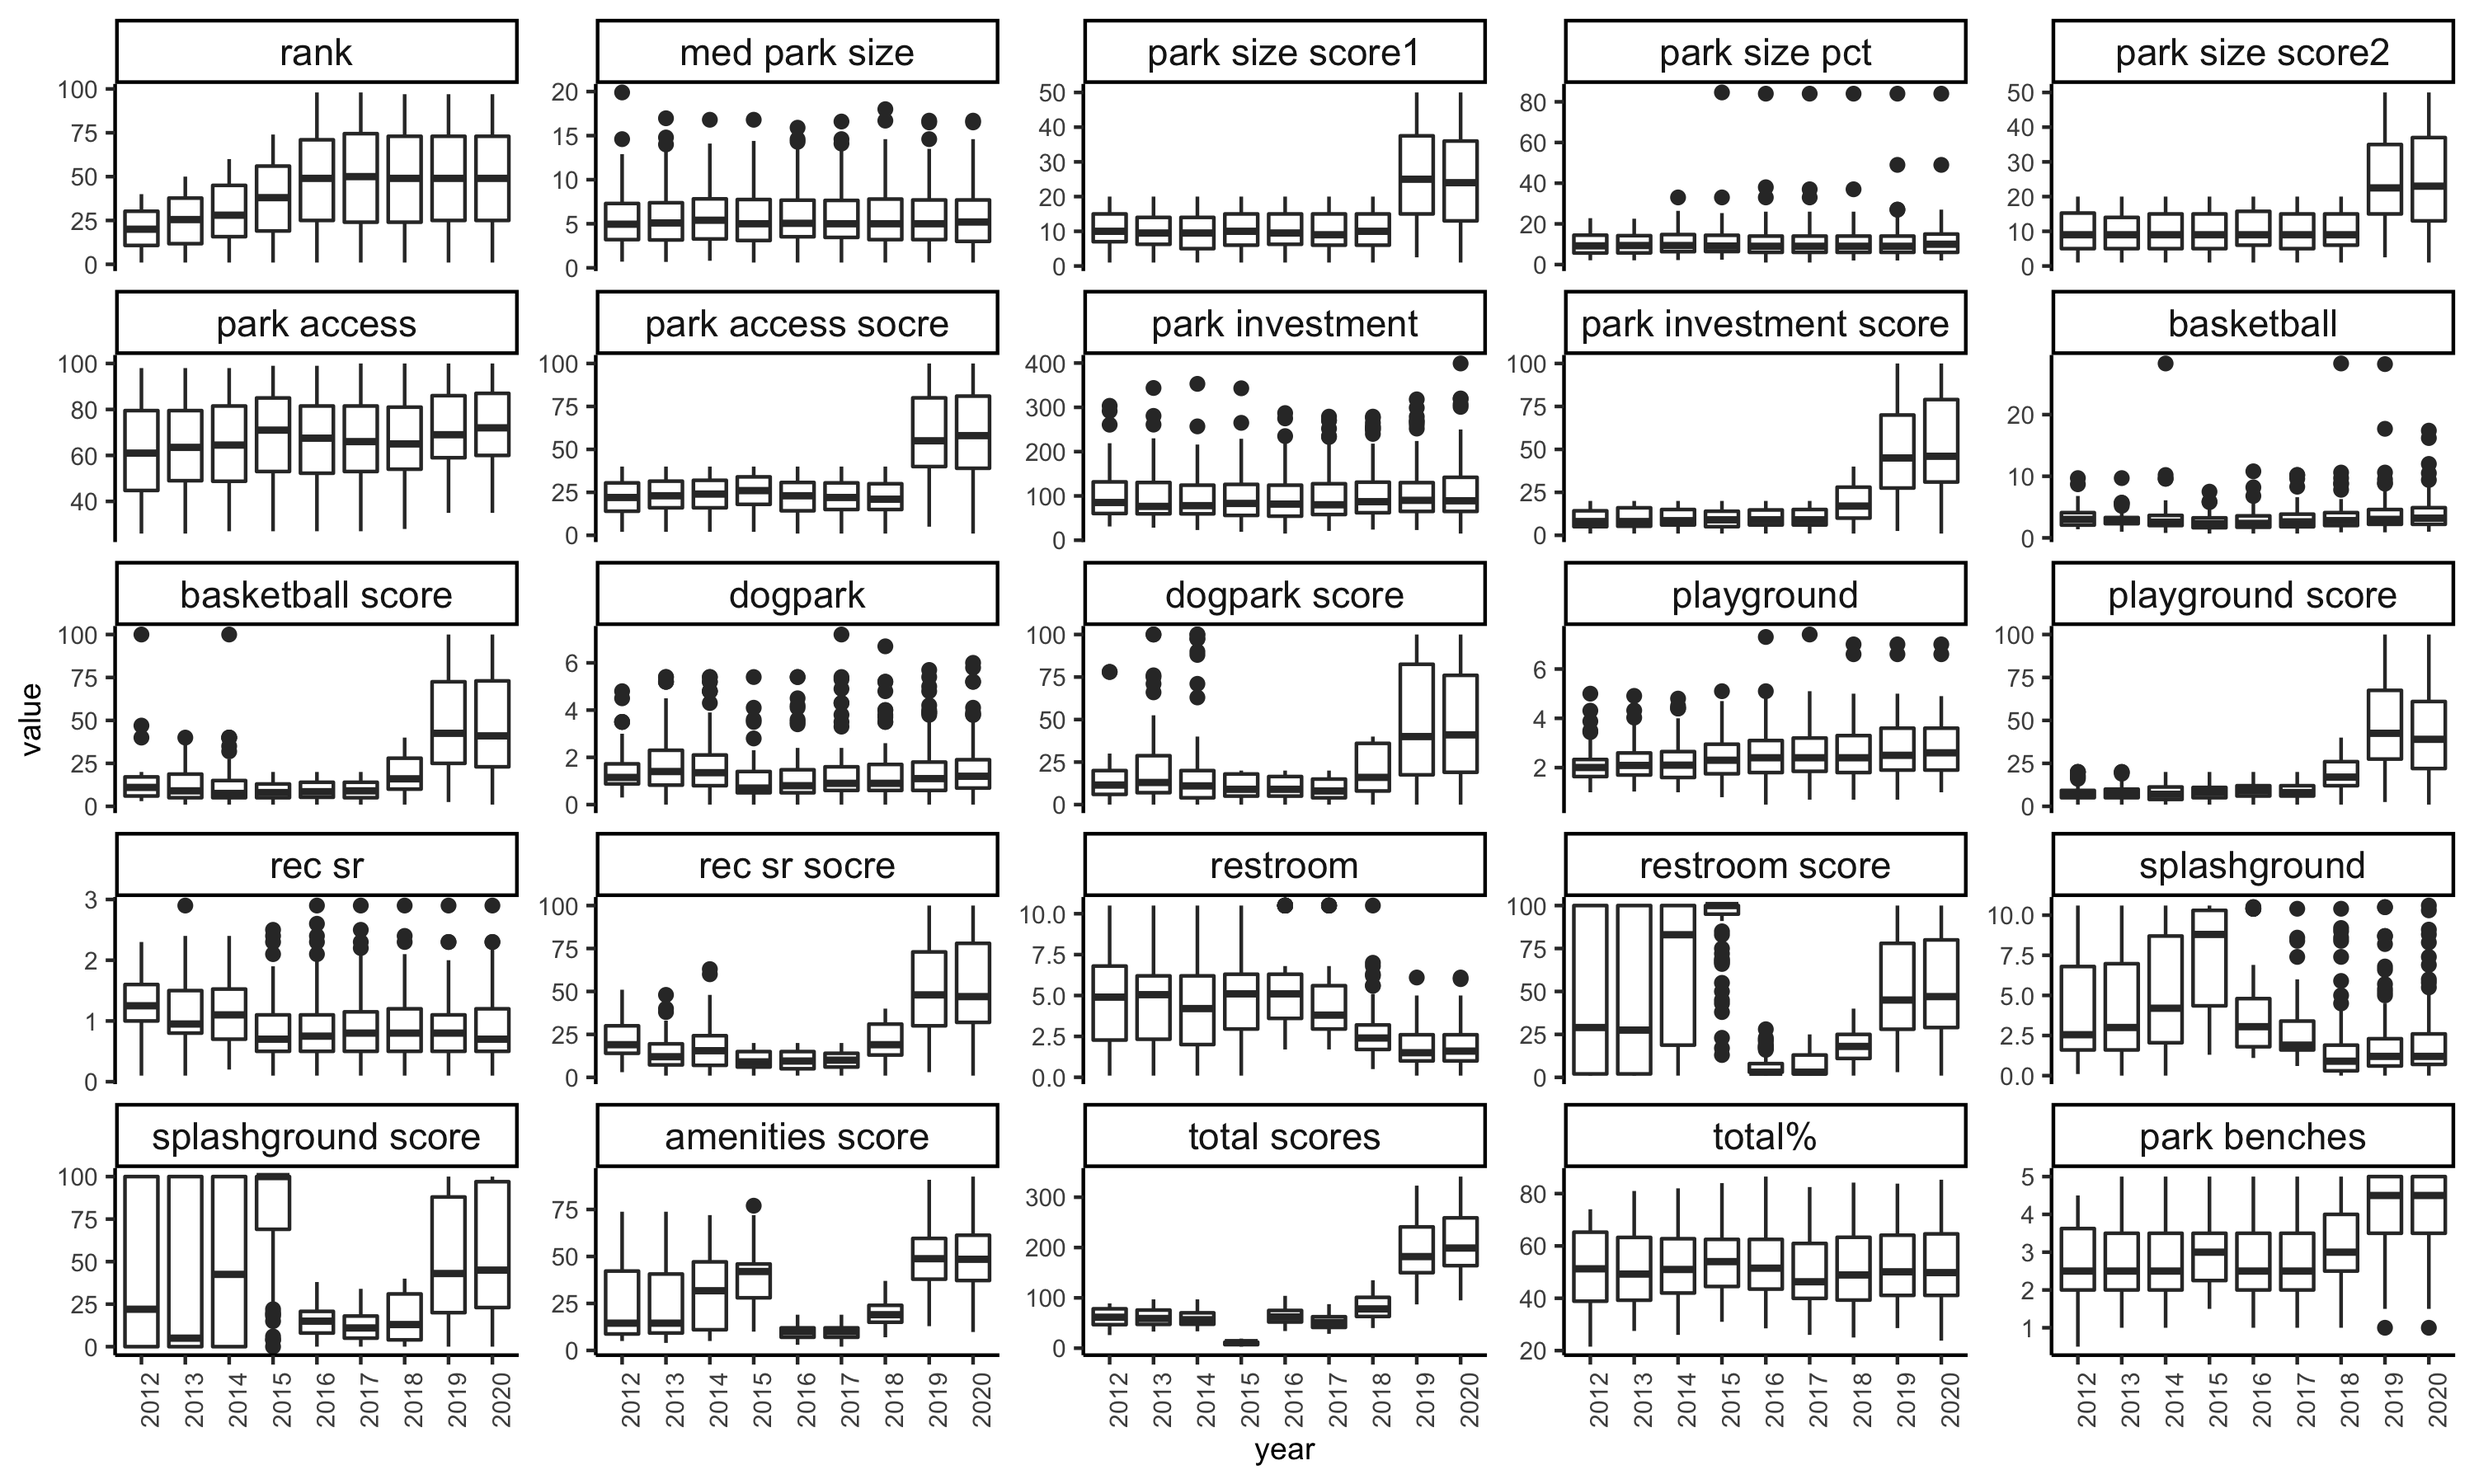
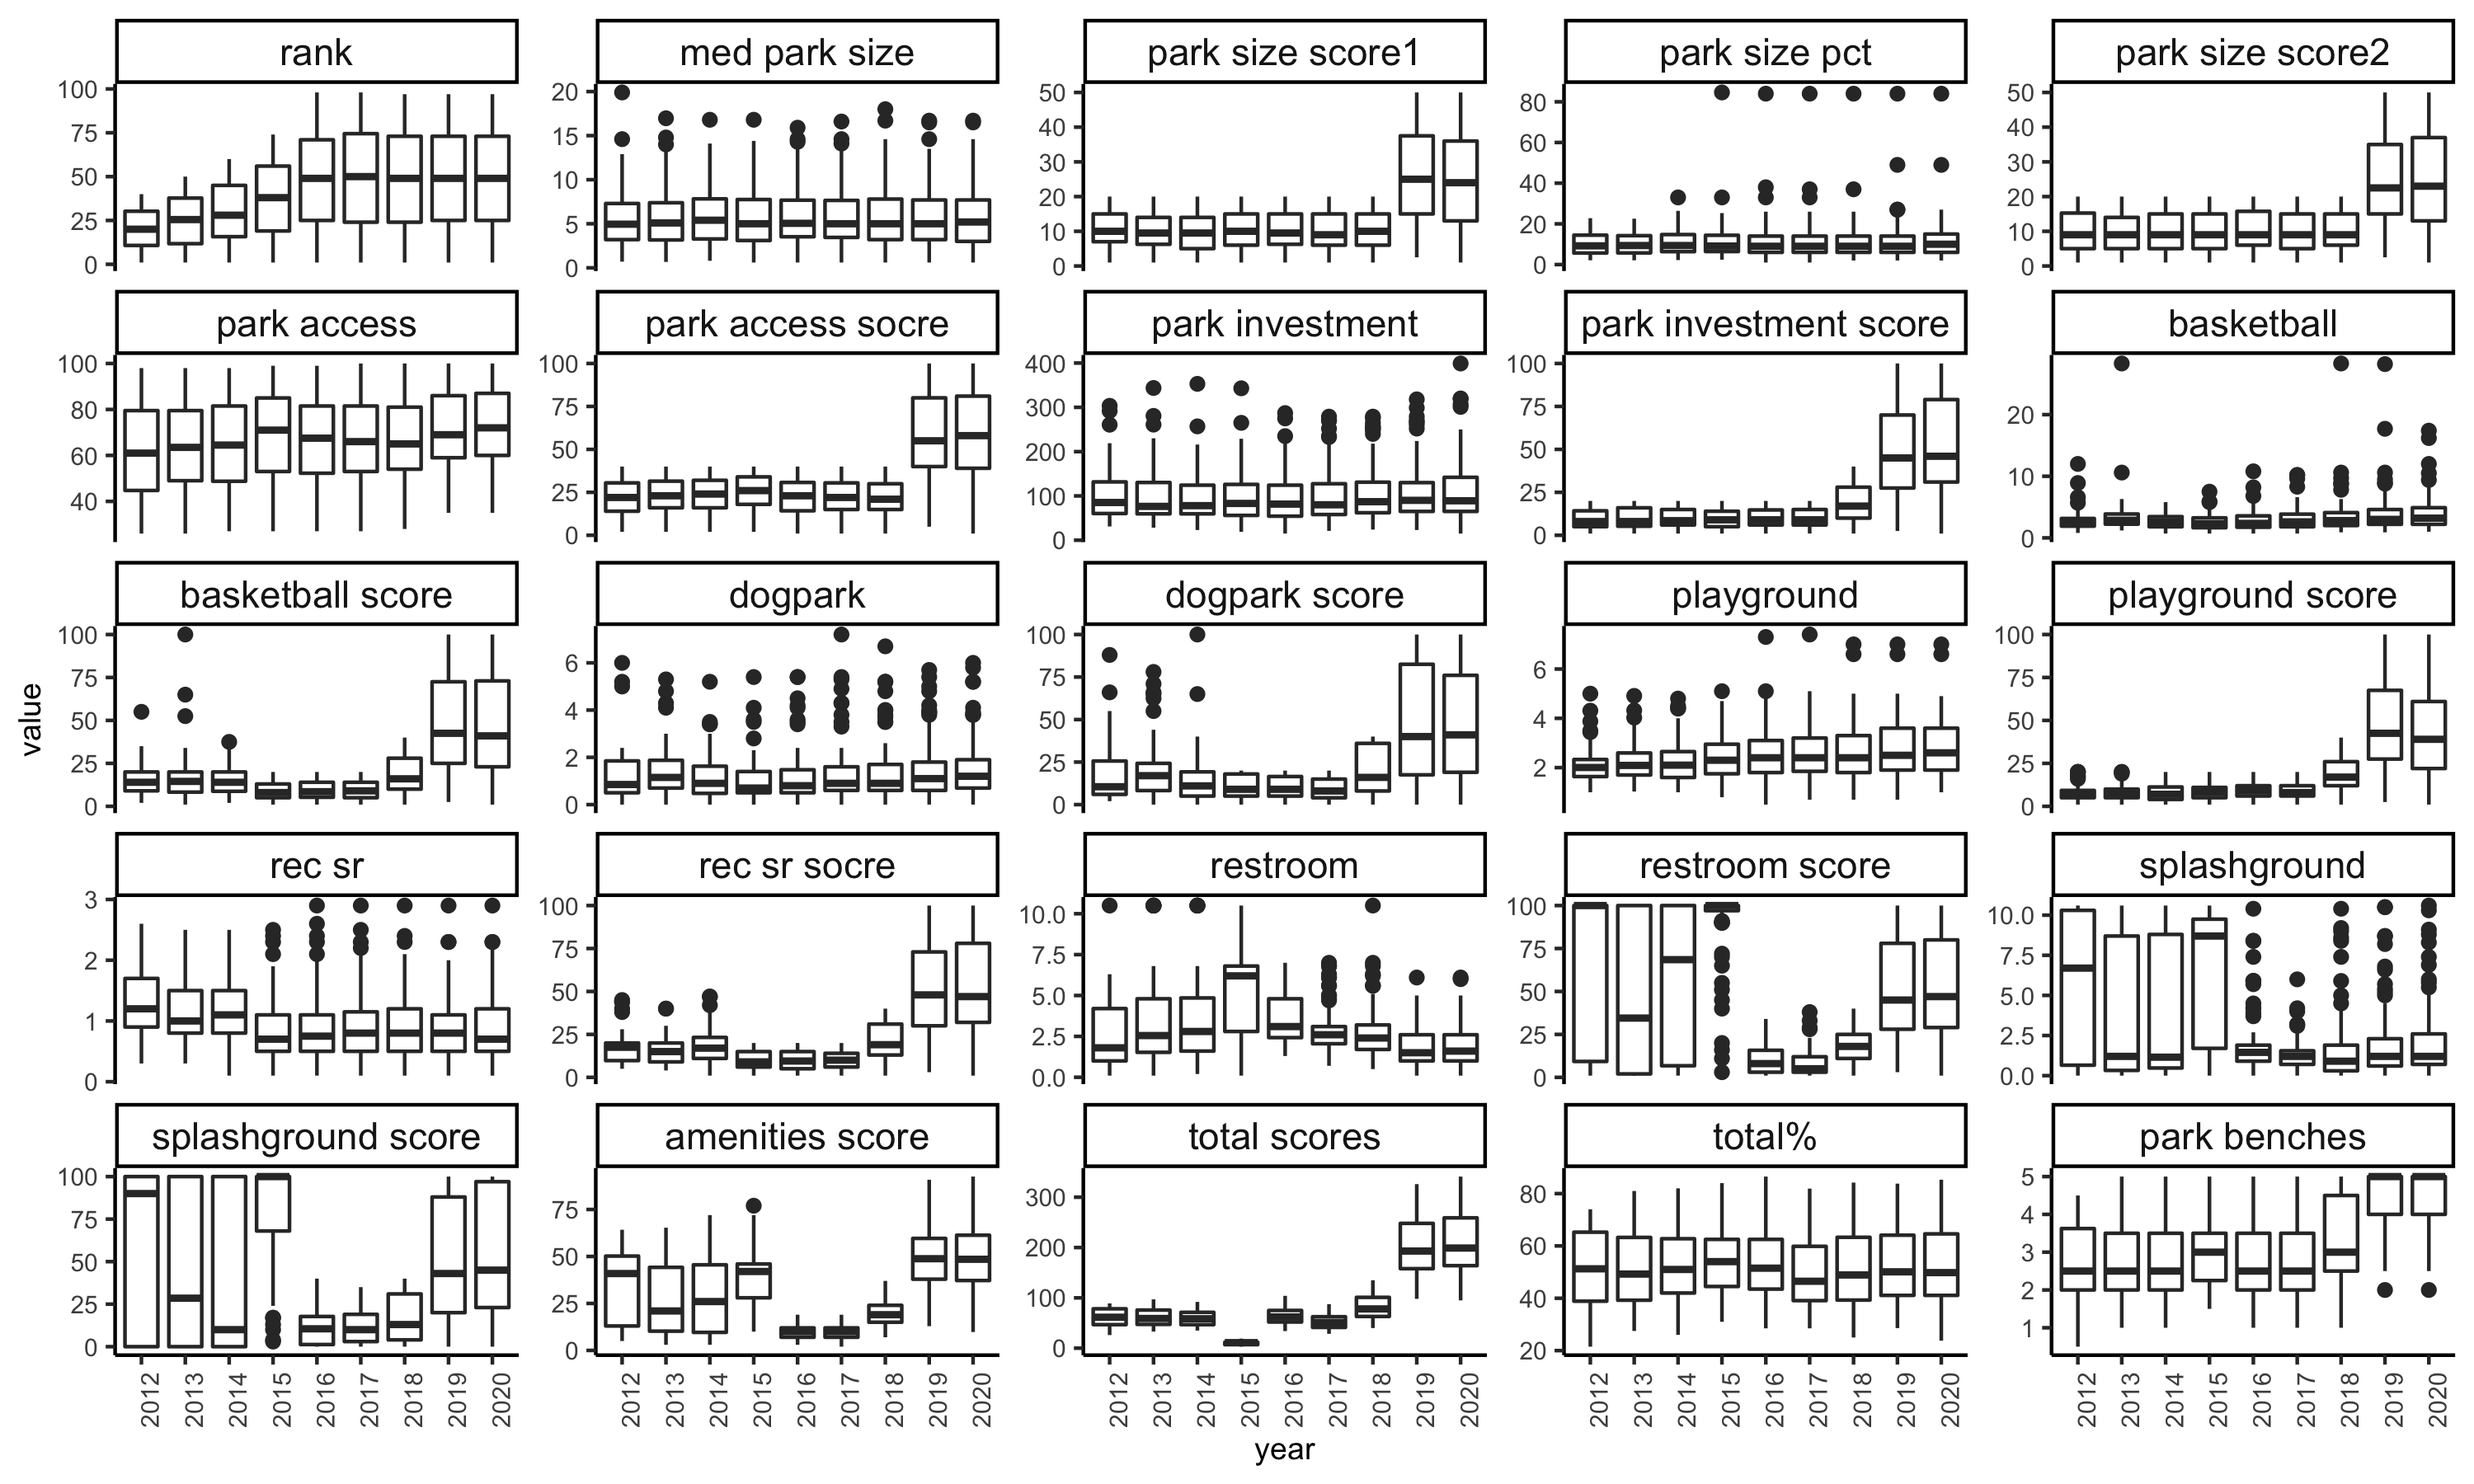
2021 scores added

diff --git a/slides_v2.html b/slides_v2.html
@@ -39,7 +39,11 @@ The Trust for Public Land (TPL) tracks green space availability across U.S. usin
 ---
 # Ranking of cities in 2020
 
-![](slides_v2_files/figure-html/map-1.png)&lt;!-- --&gt;
+Regional patterns?
+
+&lt;img src="slides_v2_files/figure-html/map-1.png" style="display: block; margin: auto;" /&gt;
+
+
 
 
 ---
@@ -70,20 +74,13 @@ The Trust for Public Land (TPL) tracks green space availability across U.S. usin
 ## Handling missing data
 
 - More than 30% of data is missing in 6 out of 28 variables, including restroom, splashground and park benches counts. We omit these variables from analysis. 
+- Assuming missing at random for others: impute using mice package with PMM Hot Deck method
 
 .center[
 ![](slides_v2_files/figure-html/remove-1.png)&lt;!-- --&gt;
 ]
 
----
-## Handling missing data
-- Assuming missing at random for others: impute using mice package with PMM Hot Deck method
 
-```r
-raw2 &lt;- select(raw, -c(city, rank)) # everything but city and rank - not useful in imputations
-imp &lt;- mice(raw2, method="pmm", donors=5, print=FALSE) 
-df &lt;- complete(imp, 1) %&gt;% mutate(., city = raw$city, rank = raw$rank, .after=1) # append back city and rank vars
-```
 
 ---
 ## Exploratory data analysis
@@ -96,9 +93,7 @@ df &lt;- complete(imp, 1) %&gt;% mutate(., city = raw$city, rank = raw$rank, .af
 
 ---
 #### Variables over the years
-
-
-Increasing trend in the scores of `park size`, `Spending per resident` and `% of residents within a 10-minute walk to park`.
+Increasing trend in `park size`, `park size`, `playground` scores. Why?
 
 .center[
 ![](slides_v2_files/figure-html/explore2-1.png)&lt;!-- --&gt;
@@ -107,11 +102,13 @@ Increasing trend in the scores of `park size`, `Spending per resident` and `% of
 ---
 ## Park Scores vs. Features 
 .center[
-![](slides_v2_files/figure-html/unnamed-chunk-2-1.png)&lt;!-- --&gt;
+![](slides_v2_files/figure-html/unnamed-chunk-1-1.png)&lt;!-- --&gt;
 ]
 
-- Different max. scores or score weight across years.
-- Increasing trend in score with larger park size, easier accessibility and higher investment in parks
+&lt;font size="4"&gt; TPL has different max. scores or feature weight across years.&lt;/font&gt; 
+
+
+&lt;font size="4"&gt;  &lt;span style="color:purple"&gt;2020-21&lt;/span&gt; scores are higher across park size, easier accessibility and investment in parks features.&lt;/font&gt; 
 
 ---
 ## Park Scores vs. Features
@@ -123,22 +120,38 @@ p1&lt;- df %&gt;%
   plot_trend (labsname=c("Basketball Hoops", " ", "Score") )
 ```
 .center[
-![](slides_v2_files/figure-html/unnamed-chunk-4-1.png)&lt;!-- --&gt;
+![](slides_v2_files/figure-html/unnamed-chunk-3-1.png)&lt;!-- --&gt;
 ]
 
-- Overall increasing trend in score with better amenities
+- Overall increasing trend in score with better amenities. But plateaus
 
 ---
 ## Top ranking cities across years
 
-Pick 2015 vs. 2020 for years and top10 most populated cities on Y axis? 
-![](slides_v2_files/figure-html/unnamed-chunk-5-1.png)&lt;!-- --&gt;
+
+![](slides_v2_files/figure-html/unnamed-chunk-4-1.png)&lt;!-- --&gt;
 
 
 ---
 ## Exploring equity in 2021
-TODO: finish
 
+- TPL added 4 features that go into the new **equity score** : park space ratio and 10-minute walk for low-income and people of color.
+- Again, hard to compare statistics since they changed weighting methods. Visually:
+
+
+```
+##       [,1] [,2]                  [,3]           
+##  [1,] "1"  "Minneapolis"         "Washington"   
+##  [2,] "2"  "Washington, D.C."    "St. Paul"     
+##  [3,] "3"  "St. Paul"            "Minneapolis"  
+##  [4,] "4"  "Arlington, Virginia" "Arlington"    
+##  [5,] "5"  "Cincinnati"          "Chicago"      
+##  [6,] "6"  "Portland"            "San Francisco"
+##  [7,] "7"  "Irvine"              "Irvine"       
+##  [8,] "8"  "San Francisco"       "Cincinnati"   
+##  [9,] "9"  "Boston"              "Seattle"      
+## [10,] "10" "Chicago"             "Portland"
+```
 
 
 
@@ -146,6 +159,7 @@ TODO: finish
 ## Summary &amp; Thank you
 - Pay attention to the different scores range/weight across the years
 - Parks tend to have greater score with larger park size, easier accessibility, higher investment and more facilities. 
+- TPL affected rankings of a lot of cities by including an equity metric in 
 
 ##### Find this project at GitHub: https://github.com/pberezina/parks-project
     </textarea>
